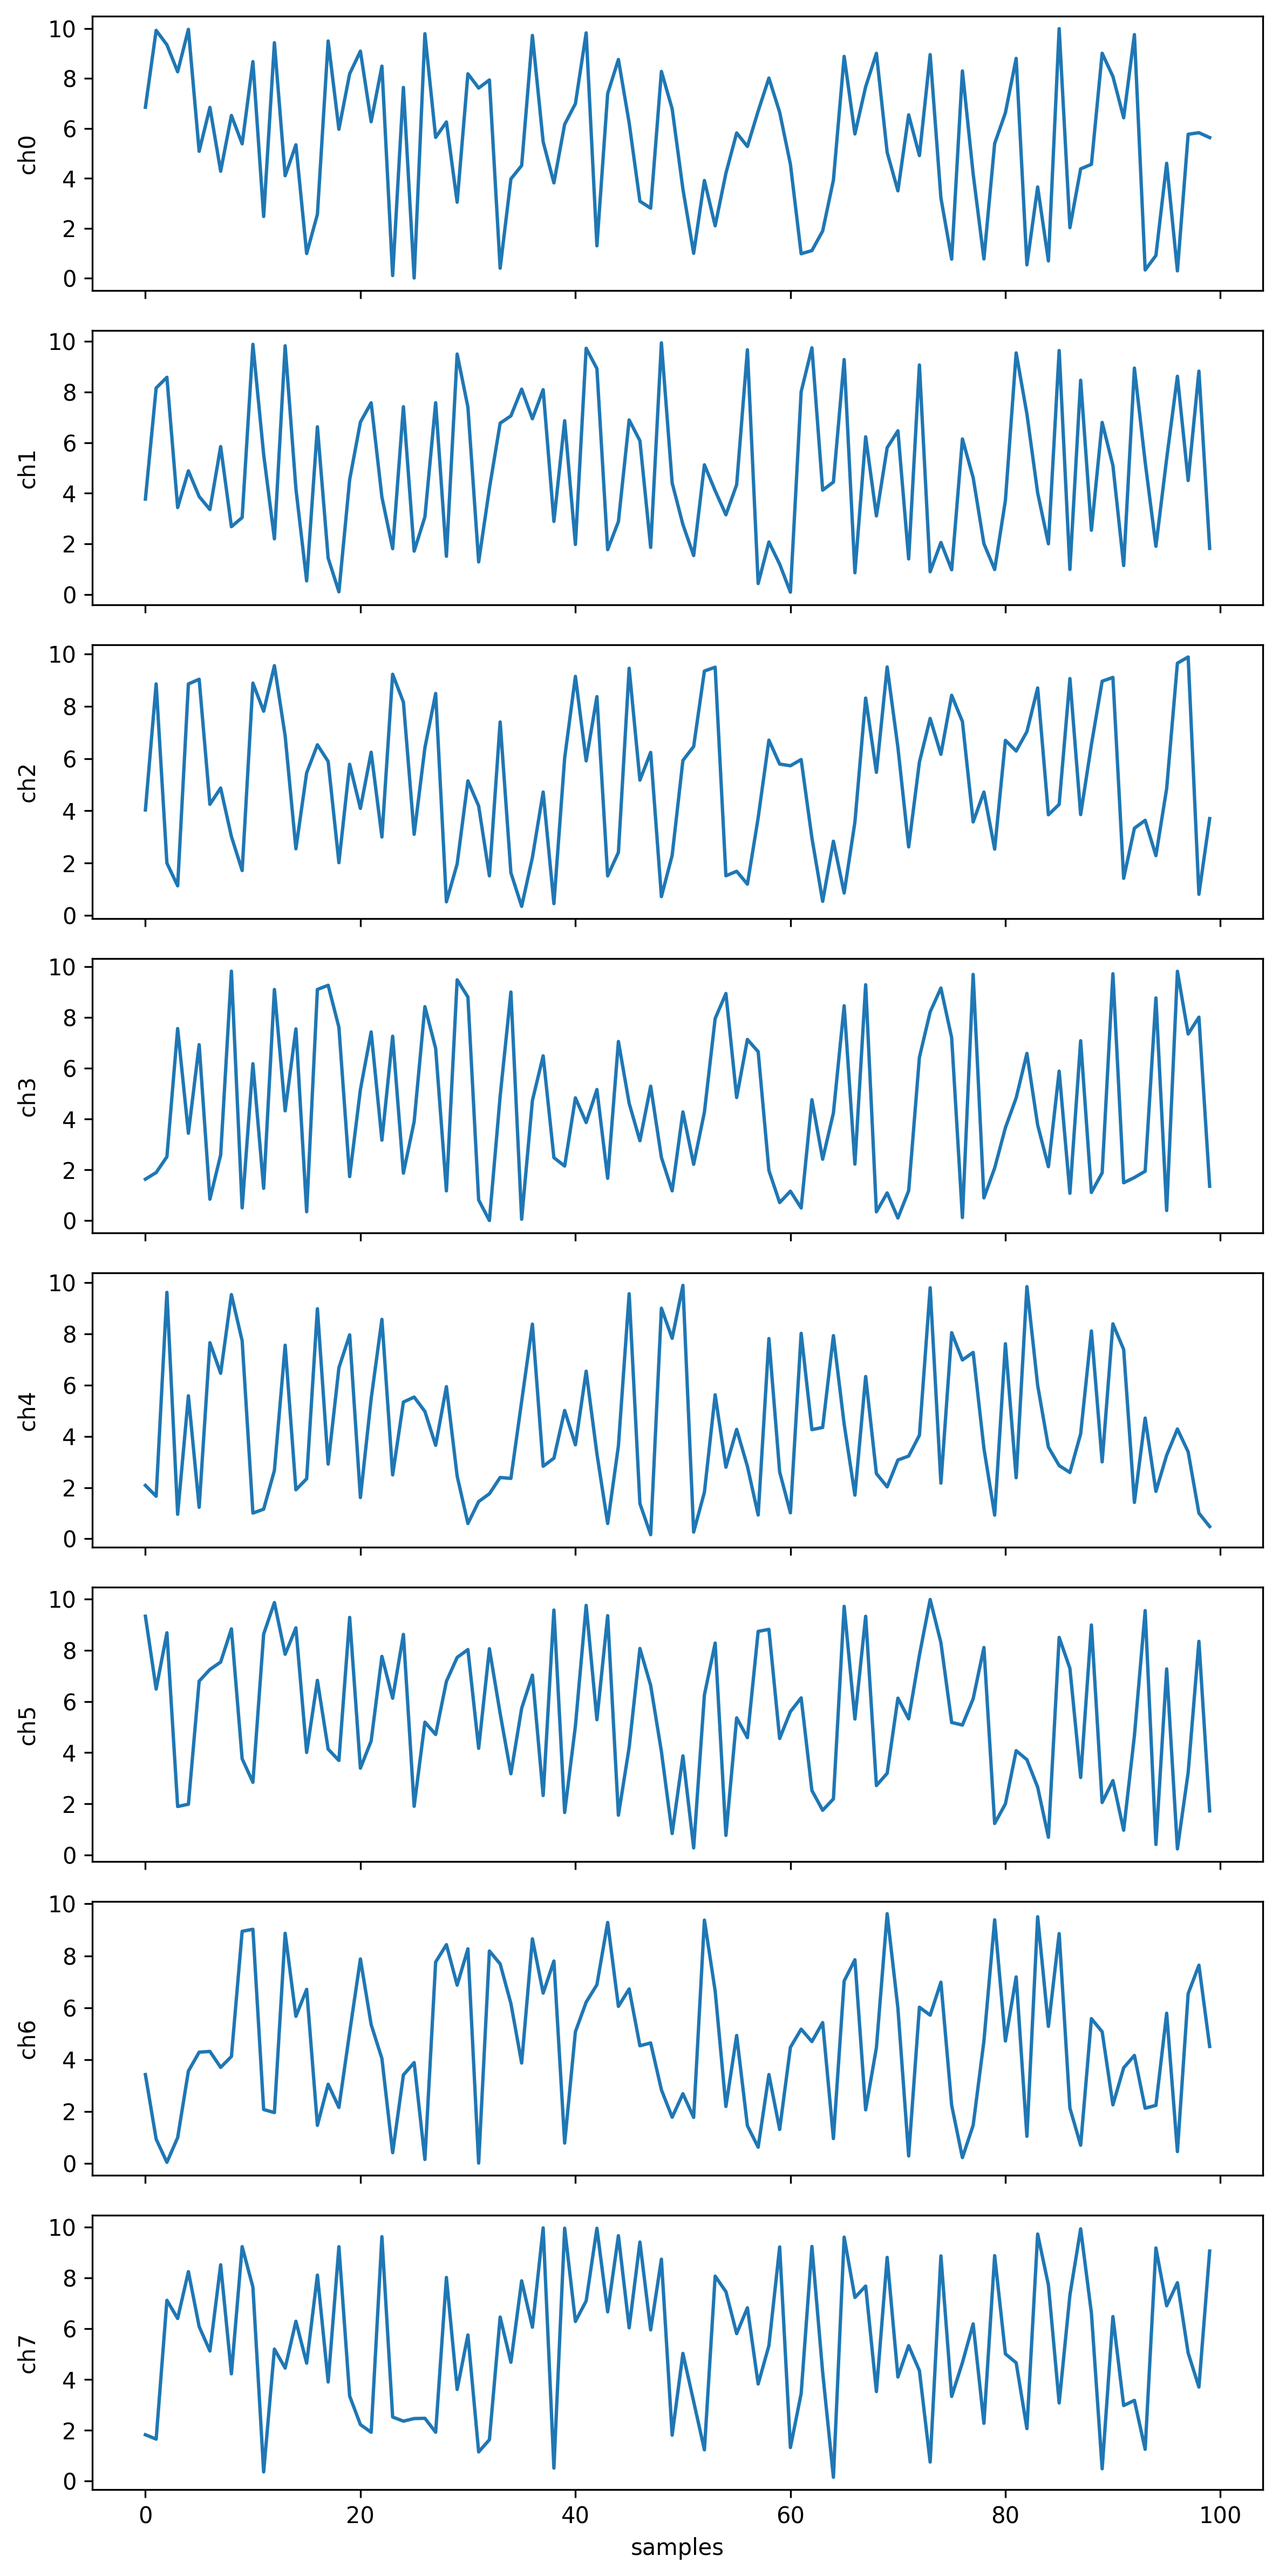
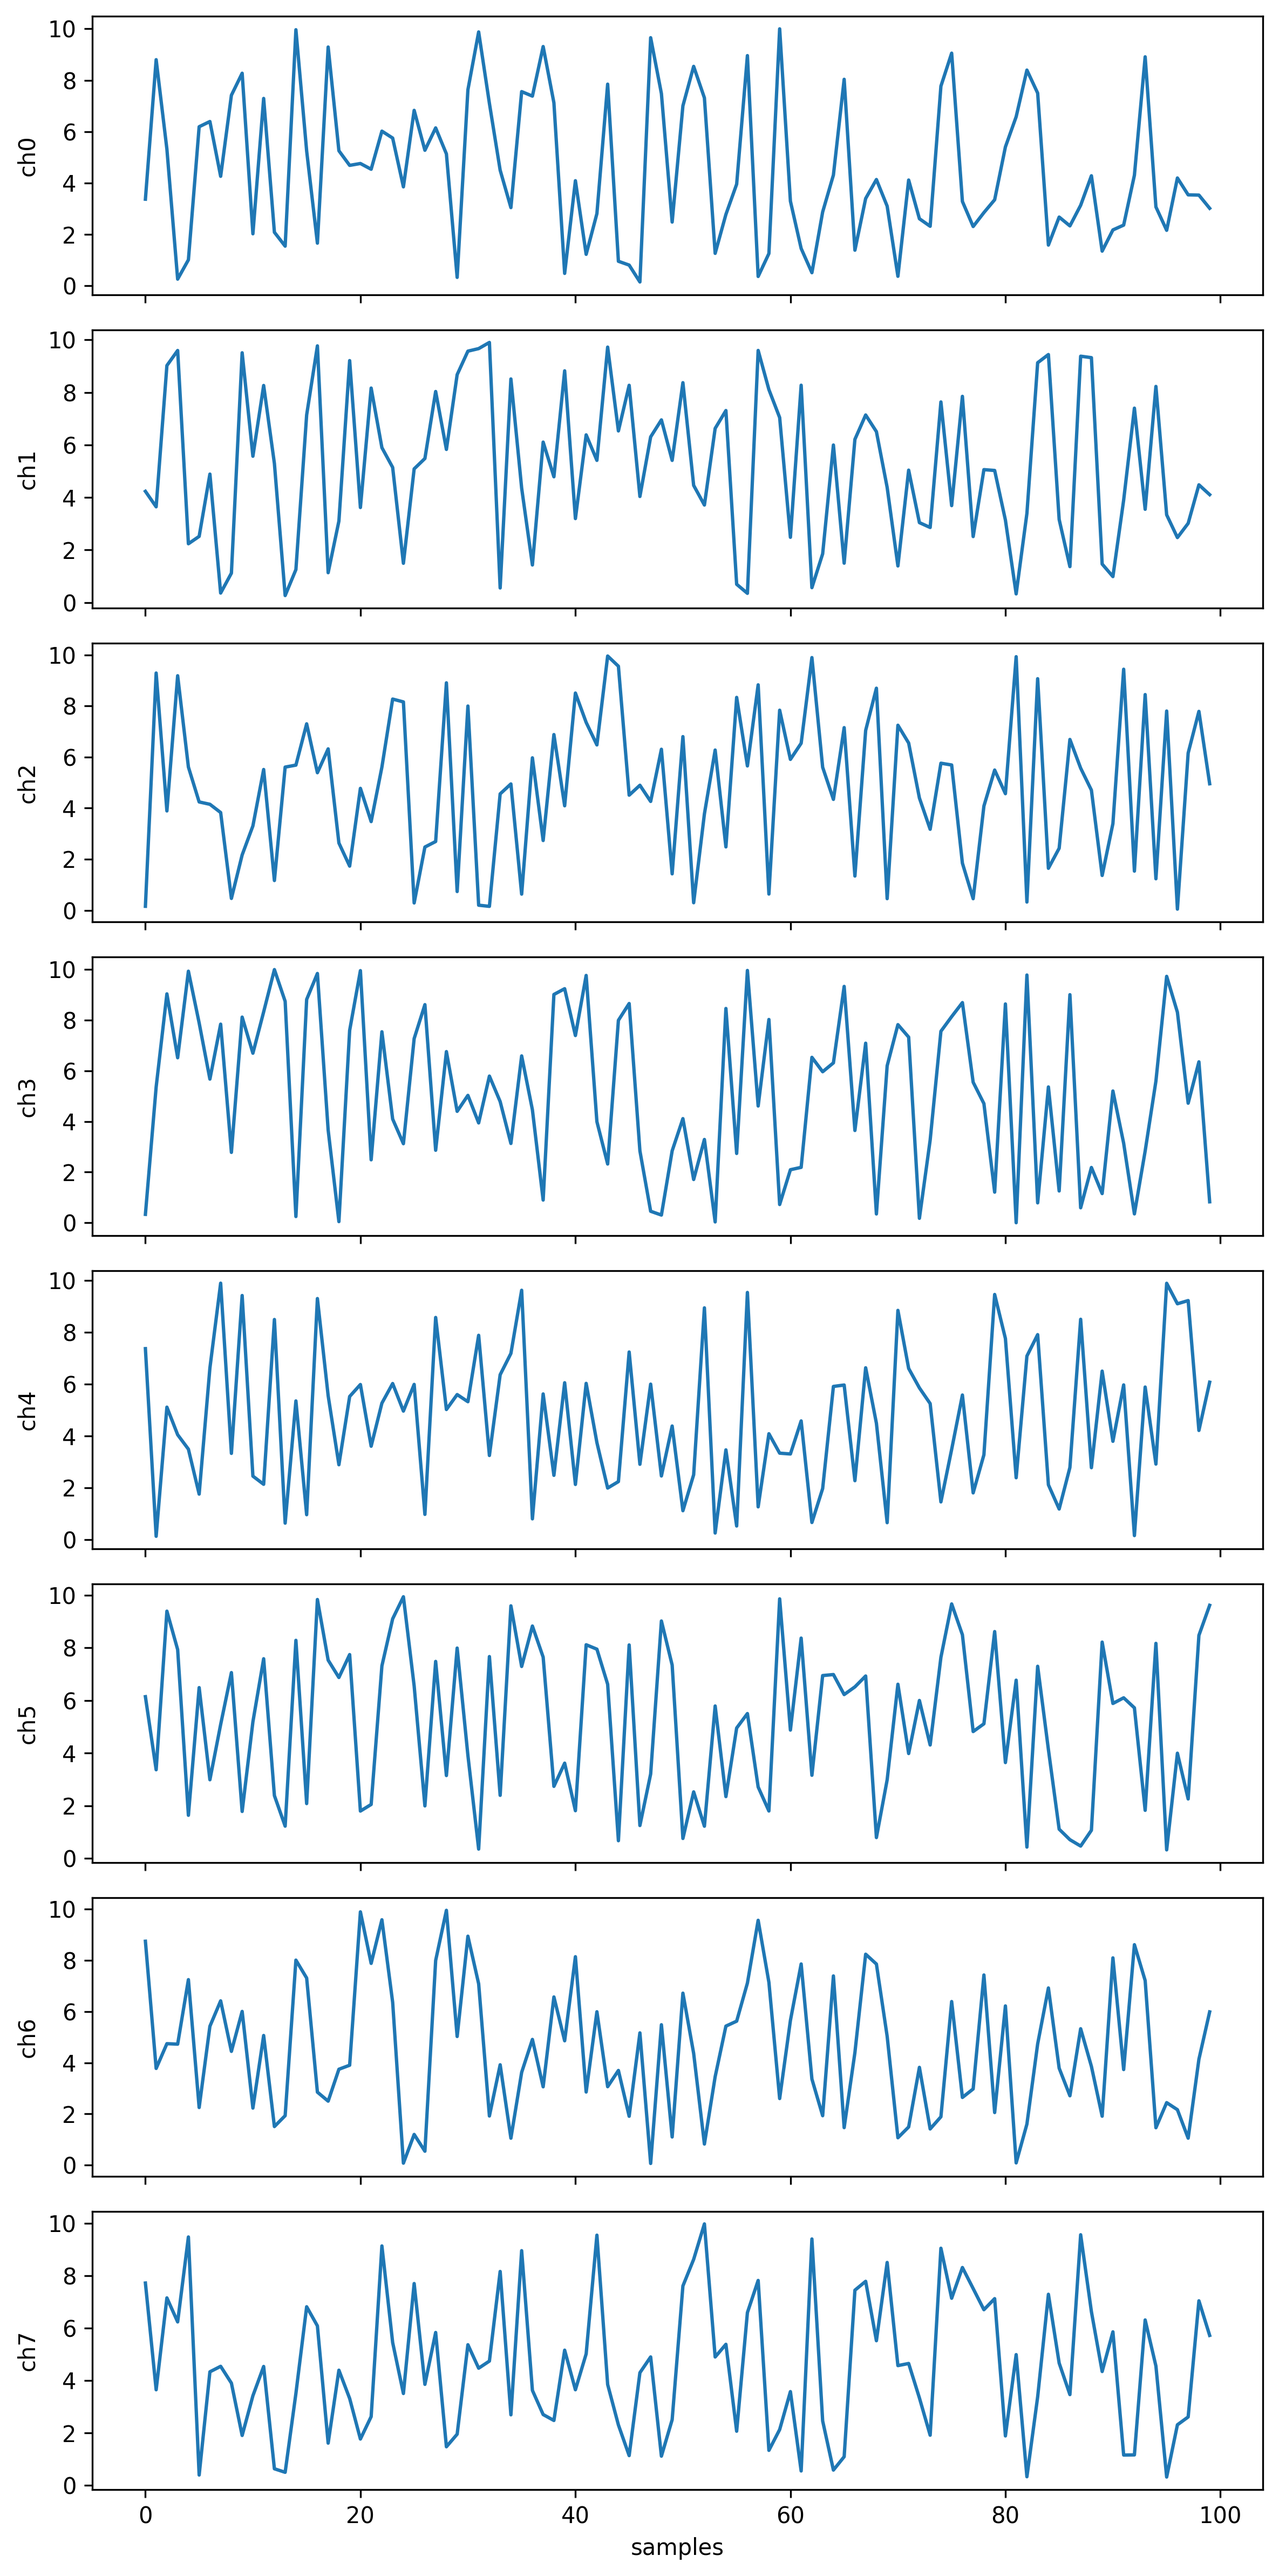
edited results files for example data

Changed region(s): [[0.0312, 0.0, 0.9679, 0.9683]]

diff --git a/DATA/Data_visualization.py b/DATA/Data_visualization.py
@@ -1,7 +1,7 @@
 import matplotlib.pyplot as plt
 import torch
 import os
-
+import Data_Conversion as DC
 
 def plot_window(window, file_name):
     # window shape: (seq_len, channels)
@@ -17,7 +17,16 @@ def plot_window(window, file_name):
     plt.close()
     plt.show()
     
-
 # Ensure folder exists
 os.makedirs("DATA/results", exist_ok=True)
 plot_window(10 * torch.rand(100, 8), "random_generated_data")  # example usage with random data
+
+plot_window(DC.tensor_Light_Hand_Open, "Low_intensity_data")  # example usage tensor Light movements
+plot_window(DC.tensor_Medium_Hand_Open, "Medium_intensity_data")  # example usage tensor Medium movements
+plot_window(DC.tensor_Hard_Hand_Open, "Hard_intensity_data") # example usage tensor Hard movements
+"""
+# 
+plot_window(DC.tensors_dict["Light"][0][7], "Low_intensity_data")  # example usage tensor Light movements
+plot_window(DC.tensors_dict["Medium"][0][7], "Medium_intensity_data")  # example usage tensor Medium movements
+plot_window(DC.tensors_dict["Hard"][0][7], "Hard_intensity_data") # example usage tensor Hard movements
+"""
